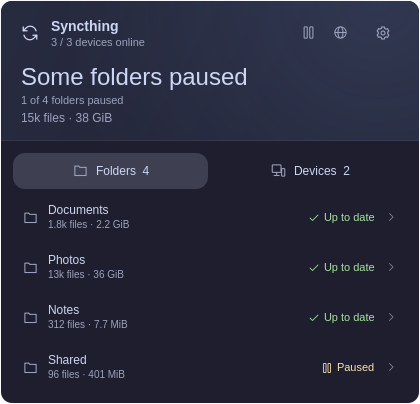
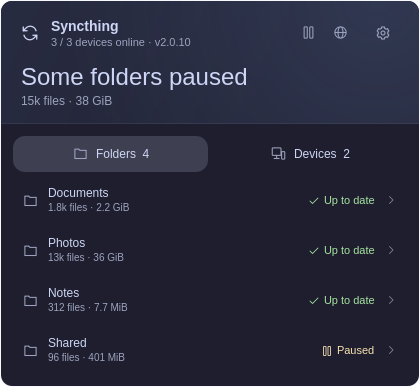
feat(syncthing): show our Syncthing version and each connected peer's
The user wants to know which Syncthing version this computer and the
other devices run.

- The header's meta reads "2 / 3 devices online · v2.0.10": the
  version from the core's identity.version, last, so an overlong one is
  what gets elided, never the device count. It is left out while
  Syncthing is offline or when the core couldn't read it; never an error.
- A connected device's row subtitle reads "3 shared folders · v2.0.9".
  A disconnected peer shows no version (the simpler choice: no "last
  seen" marking), nor does any row while Syncthing is unavailable.
- Both are plain text (the view's Label is Text.PlainText, the kit's
  meta too) and were bounded by the core (43445d3).

No new catalog strings: the parts are the existing device count, the
folder count and the version, joined with " · ".

Tests:
- overview.test.js: the connected, disconnected and offline subtitles;
  fails on the old model.
- runtime.py's new live scenes run the real core against the fake
  Syncthing (fake systemctl and syncthing first on PATH, STCONFDIR and
  STHOMEDIR unset, config.xml in the shell's own XDG_STATE_HOME) up to
  the opened popup: our version in the meta, the peer's on its row, none
  on the disconnected peer, no folder count under "Up to date". A second
  run fails /rest/system/version and gives the peer an escape-sequence
  version: no version anywhere and no error. Without this change the
  scenes fail ("our version: 'undefined'"); with the previous helper,
[…]

diff --git a/preview/Preview.qml b/preview/Preview.qml
@@ -10,7 +10,7 @@ Item {
   id: preview
   required property QtObject bar
   required property Item anchorItem
-  property var previewStates: ["folders", "syncing", "devices", "conflicts", "stopped", "not-installed", "empty", "settings", "add-folder", "unlink"]
+  property var previewStates: ["folders", "up-to-date", "syncing", "devices", "conflicts", "unavailable", "stopped", "not-installed", "empty", "settings", "add-folder", "unlink"]
   property string previewState: "folders"
   property int settleMs: 700
   readonly property Item popup: popupWindow
@@ -71,7 +71,7 @@ Item {
       id: "work-z8y7x",
       label: "",
       path: home + "/Work/Shared",
-      paused: true,
+      paused: previewState !== "up-to-date" && previewState !== "devices",
       devices: [
         {
           id: "LAPTOP"
@@ -90,7 +90,10 @@ Item {
     readonly property bool stopped: preview.previewState === "stopped"
     readonly property bool missing: preview.previewState === "not-installed"
     readonly property bool empty: preview.previewState === "empty"
-    readonly property bool online: !stopped && !missing
+    // Syncthing doesn't answer (the core's error), the unit still runs.
+    readonly property bool unavailable: preview.previewState === "unavailable"
+    readonly property bool online: !stopped && !missing && !unavailable
+    readonly property string syncthingVersion: online ? "v2.0.10" : ""
     readonly property string localDeviceId: "LOCAL"
     readonly property var devices: Facade.devices(online ? [
       {
@@ -101,12 +104,14 @@ Item {
       {
         id: "LAPTOP",
         name: "ThinkPad",
-        connected: true
+        connected: true,
+        version: "v2.0.10"
       },
       {
         id: "PHONE",
         name: "Pixel 9",
-        connected: preview.previewState !== "devices"
+        connected: preview.previewState !== "devices",
+        version: preview.previewState !== "devices" ? "v1.30.0" : ""
       }
     ] : [])
     readonly property var folders: Facade.folders(online && !empty ? preview.rawFolders : [])
@@ -136,12 +141,12 @@ Item {
     readonly property bool tooFewDevices: false
     readonly property bool hasProblems: hasConflicts
     readonly property bool serviceAvailable: !missing
-    readonly property bool serviceActive: online
+    readonly property bool serviceActive: online || unavailable
     readonly property string installationState: missing ? "missing" : "existing"
     readonly property bool canInstall: missing
     readonly property bool canControlService: !missing
     readonly property bool serviceActionRunning: false
-    readonly property string summaryText: missing ? FoamyI18n.t("Syncthing is not installed") : stopped ? FoamyI18n.t("Syncing stopped") : ""
+    readonly property string summaryText: missing ? FoamyI18n.t("Syncthing is not installed") : stopped ? FoamyI18n.t("Syncing stopped") : unavailable ? FoamyI18n.t("Syncthing unavailable") : ""
     readonly property var compactSummary: PanelModel.compactSummary(mock, folderRows, FoamyI18n.t, function (key, count, values) {
       return FoamyI18n.tn(key, count, values)
     })
@@ -153,7 +158,7 @@ Item {
     readonly property string packageStatus: ""
     readonly property string packageError: ""
     readonly property string conflictScanError: ""
-    readonly property string lastError: ""
+    readonly property string lastError: unavailable ? "Syncthing returned HTTP 500" : ""
     readonly property string controlError: ""
     readonly property string folderPreparationError: ""
     readonly property bool folderPreparationBusy: false
@@ -188,7 +193,7 @@ Item {
       return
     view.forgetFolderId = ""
     view.addOpen = false
-    view.tab = previewState === "devices" ? "devices" : "folders"
+    view.tab = previewState === "devices" || previewState === "up-to-date" ? "devices" : "folders"
     var expanded = ({})
     if (previewState === "syncing")
       expanded["folders:docs-x7k2p"] = true

diff --git a/models/OverviewModel.js b/models/OverviewModel.js
@@ -39,7 +39,8 @@ function rows(service, folders, translate, formatBytes, formatCount, translatePl
     var id = String(device.deviceID || "")
     if (!id || id === service.localDeviceId || byId[id]) continue
     var row = {id: id, label: device.name || tr("Device {id}", {id: id.slice(0, 7)}),
-      connected: device.connected === true, state: "", subtitle: "", detail: "", related: [], icon: "devices", progress: -1}
+      connected: device.connected === true, version: String(device.version || ""),
+      state: "", subtitle: "", detail: "", related: [], icon: "devices", progress: -1}
     byId[id] = row
     deviceRows.push(row)
   }
@@ -87,7 +88,9 @@ function rows(service, folders, translate, formatBytes, formatCount, translatePl
       else if (row.related.some(function(folder) { return folder.state === "Out of sync" })) row.state = "Out of sync"
       else if (row.related.some(function(folder) { return folder.state === "Syncing" })) row.state = "Syncing"
     }
-    row.subtitle = tn("{count} shared folders", row.related.length, {count: row.related.length})
+    var shared = tn("{count} shared folders", row.related.length, {count: row.related.length})
+    // A peer's Syncthing version is known only while it is connected.
+    row.subtitle = row.version && row.state !== "Unavailable" && row.connected ? shared + " · " + row.version : shared
     row.detail = row.state === "Error" ? tr("Connected. A shared folder has a local error.")
       : row.state === "Out of sync" ? tr("Connected. A shared folder is out of sync locally.")
       : row.state === "Syncing" ? tr("Connected. A shared folder is syncing locally.")

diff --git a/ui/SyncthingView.qml b/ui/SyncthingView.qml
@@ -76,6 +76,11 @@ PanelKeyCatcher {
   // The title row's meta: how many devices are online. When Syncthing is not
   // reachable the hero title already says why, so the meta stays empty.
   readonly property string deviceLine: service && service.online ? FoamyI18n.t("{connected} / {total} devices online", counts) : ""
+  // Our Syncthing version ends the meta (an overlong one is what gets elided);
+  // it is left out when unknown.
+  readonly property string headerMeta: [deviceLine, service ? String(service.syncthingVersion || "") : ""].filter(function (part) {
+    return part !== ""
+  }).join(" · ")
 
   // ---- keyed rows (built only while shown) -------------------------------------
   readonly property var liveRows: opened && !editingSettings && !addOpen ? OverviewModel.rows(service, folderRows, FoamyI18n.t, PanelModel.formatBytes, PanelModel.formatCount, FoamyI18n.tn) : null
@@ -364,7 +369,7 @@ PanelKeyCatcher {
       Layout.fillWidth: true
       iconName: "sync"
       title: FoamyI18n.t("Syncthing")
-      meta: root.deviceLine
+      meta: root.headerMeta
       settingsHasCursor: cursor.at(root.settingsStop)
       onSettingsClicked: root.settingsRequested()
       onSettingsHovered: function (hovered) {

diff --git a/tests/overview.test.js b/tests/overview.test.js
@@ -67,3 +67,16 @@ test('out-of-sync folders preserve errors and do not turn offline peers into err
   assert.equal(offline.devices[1].state, 'Disconnected');
   assert.equal(rows({...service, online: false}, [failed]).folders[0].state, 'Unavailable');
 });
+
+test('a connected peer shows its Syncthing version; a disconnected or offline one does not', () => {
+  const versioned = {...service, devices: [
+    {deviceID: 'local', name: 'Local', version: 'v2.0.10'},
+    {deviceID: 'peer', name: 'Peer', connected: true, version: 'v2.0.9'},
+    {deviceID: 'offline', name: 'Offline', connected: false, version: 'v1.27.0'}]};
+  const result = rows(versioned);
+  assert.equal(result.devices[0].subtitle, '1 shared folders · v2.0.9');
+  assert.doesNotMatch(result.devices[1].subtitle, /v1\.27/);
+  assert.doesNotMatch(rows({...versioned, online: false}).devices[0].subtitle, /v2\.0\.9/);
+  // No version: the subtitle is the folder count alone.
+  assert.doesNotMatch(rows().devices[0].subtitle, /·/);
+});

diff --git a/Service.qml b/Service.qml
@@ -50,6 +50,8 @@ QtObject {
   readonly property string recoveryWarning: core.starting ? root.tr("Starting the native core") : Facade.truncated(truncation) ? root.tr("Some Syncthing items exceed panel limits; use the Web UI for the hidden entries") : ""
   readonly property string baseUrl: String(webUi.url || "")
   readonly property string localDeviceId: String(identity.deviceId || "")
+  // This Syncthing's version ("v2.0.10"); "" while offline or when the core couldn't read it.
+  readonly property string syncthingVersion: online ? String(identity.version || "") : ""
   readonly property var devices: Facade.devices(state.devices)
   readonly property var folders: Facade.folders(state.folders)
   readonly property var pendingFolders: state.pendingFolders || ({})

diff --git a/service/Facade.js b/service/Facade.js
@@ -9,7 +9,9 @@ function devices(values) {
       deviceID: String(device.id || ""),
       name: String(device.name || ""),
       untrusted: device.untrusted === true,
-      connected: device.connected === true
+      connected: device.connected === true,
+      // The core keeps only short printable versions, and only while connected.
+      version: String(device.version || "")
     })
   }
   return projected

diff --git a/tests/runtime.py b/tests/runtime.py
@@ -39,6 +39,9 @@ os.environ.setdefault("FOAMY_HOST_45", "/usr/share/omarchy/shell")
 sys.path.insert(0, str(KIT / "preview"))
 import harness  # noqa: E402
 
+import core_harness  # noqa: E402
+import fake_syncthing  # noqa: E402
+
 SOURCE = Path(__file__).resolve().parents[1]
 
 PROBE_STUB = """#!/bin/bash
@@ -260,16 +263,73 @@ ShellRoot {
 }
 """
 
+# The real core against tests/fake_syncthing.py: the header's version and
+# device line, and each peer's version, end to end (Syncthing → helper →
+# Service → view). FOAMY_EXPECT_* say what this run's fake reports.
+LIVE_SHELL = r"""
+import QtQuick
+import Quickshell
+import "harness"
+import "plugin" as Plugin
 
-def prepare(work):
+ShellRoot {
+  id: shell
+  property var service: null
+  property var panel: null
+  property int checks: 0
+  readonly property string version: Quickshell.env("FOAMY_EXPECT_VERSION")
+  readonly property string peer: Quickshell.env("FOAMY_EXPECT_PEER")
+  function check(ok, what) { checks++; if (!ok) console.log("FOAMY FAIL " + what) }
+  function device(view, name) {
+    var devices = view && view.liveRows ? view.liveRows.devices : []
+    for (var i = 0; i < devices.length; i++)
+      if (devices[i].label === name) return devices[i]
+    return null
+  }
+  FloatingWindow {
+    implicitWidth: 400; implicitHeight: 300
+    Item { id: host; width: 400; height: 300 }
+  }
+  Component { id: barComponent; MockBar { barSize: 34 } }
+  FoamyWait { id: wait }
+  Component.onCompleted: {
+    service = Qt.createComponent(Qt.resolvedUrl("plugin/Service.qml")).createObject(null)
+    panel = Qt.createComponent(Qt.resolvedUrl("plugin/Panel.qml")).createObject(host, {
+      bar: barComponent.createObject(shell, { moduleName: "foamy.syncthing" }), moduleName: "foamy.syncthing", width: 40, height: 34 })
+    wait.waitFor(function() { return service.online && service.folderRows.length === 1 && service.devices.length === 3 }, 30000, function(ok) {
+      check(ok, "the real core brings the fake Syncthing online (" + service.phase + " " + service.lastError + ")")
+      panel.open()
+      wait.waitFor(function() { return panel.popup.bodyItem !== null && shell.device(panel.popup.bodyItem, "laptop") !== null }, 10000, function(ok) {
+        var view = panel.popup.bodyItem
+        check(ok, "the popup shows the devices")
+        check(service.syncthingVersion === version, "our version: '" + service.syncthingVersion + "'")
+        check(view.headerMeta === "2 / 3 devices online" + (version ? " · " + version : ""), "header meta: " + view.headerMeta)
+        check(view.summary.title === "Up to date" && view.summary.detail === "", "no folder count under Up to date: " + JSON.stringify(view.summary))
+        check(view.errorText === "", "no error: " + view.errorText)
+        var laptop = shell.device(view, "laptop")
+        check(laptop && laptop.connected && laptop.subtitle === peer, "connected peer: " + (laptop && laptop.subtitle))
+        var phone = shell.device(view, "<phone & co>")
+        check(phone && !phone.connected && phone.subtitle === "0 shared folders", "disconnected peer, no version: " + (phone && phone.subtitle))
+        console.log("FOAMY CHECKS " + checks)
+        console.log("FOAMY DONE")
+        Qt.quit()
+      }, "the popup opens")
+    })
+  }
+}
+"""
+
+
+def prepare(work, real_core=False):
     plugin = work / "plugin"
     shutil.copytree(SOURCE, plugin, ignore=shutil.ignore_patterns(".git", "__pycache__", "preview.png", "target"))
-    # The fake core answers `stream`; `conflicts` goes to the real helper.
-    core = plugin / "bin" / platform.machine() / "foamy-syncthing-helper"
-    shutil.copyfile(core, work / "foamy-syncthing-helper")
-    (work / "foamy-syncthing-helper").chmod(0o755)
-    shutil.copyfile(SOURCE / "tests/fake-core.py", core)
-    core.chmod(0o755)
+    if not real_core:
+        # The fake core answers `stream`; `conflicts` goes to the real helper.
+        core = plugin / "bin" / platform.machine() / "foamy-syncthing-helper"
+        shutil.copyfile(core, work / "foamy-syncthing-helper")
+        (work / "foamy-syncthing-helper").chmod(0o755)
+        shutil.copyfile(SOURCE / "tests/fake-core.py", core)
+        core.chmod(0o755)
     (plugin / "scripts/syncthing-install.sh").write_text(PROBE_STUB)
     return plugin
 
@@ -435,11 +495,86 @@ def run(host, shell, crash=False, blocked=False):
         shutil.rmtree(work, ignore_errors=True)
 
 
+def run_live(host, failing_version=False):
+    """LIVE_SHELL with the real core, a fake Syncthing in the shell's HOME and
+    fake systemctl/syncthing first on PATH (no real service is ever asked).
+    failing_version: /rest/system/version fails and the peer reports a
+    version with an escape sequence; neither may show."""
+    work = Path(tempfile.mkdtemp(prefix=f"foamy-syncthing-live-{host}-"))
+    syncthing = None
+    try:
+        plugin = prepare(work, real_core=True)
+        runner = harness.Run(
+            host,
+            LIVE_SHELL,
+            plugin=plugin,
+            prefix=f"foamy-syncthing-live-{host}-",
+            fakebin={"systemctl": core_harness.SYSTEMCTL, "syncthing": core_harness.SYNCTHING},
+        )
+        home = Path(runner.env["HOME"])
+        syncthing = fake_syncthing.FakeSyncthing(home)
+        (home / "Docs").mkdir()
+        syncthing.state["folders"] = [fake_syncthing.folder(home / "Docs")]
+        if failing_version:
+            syncthing.overrides[("GET", "/rest/system/version")] = (500, b"boom")
+            syncthing.state["connections"][fake_syncthing.PEER_ID]["clientVersion"] = "v2.0.9\x1b[31m"
+        config = Path(runner.env["XDG_STATE_HOME"]) / "syncthing"
+        config.mkdir(parents=True)
+        syncthing.state["paths"]["config"] = str(config / "config.xml")
+        (config / "config.xml").write_text(
+            f'<configuration><gui tls="false"><address>{syncthing.address}</address>'
+            f"<apikey>{fake_syncthing.API_KEY}</apikey></gui></configuration>\n"
+        )
+        systemctl = work / "systemctl.json"
+        systemctl.write_text(
+            json.dumps(
+                {
+                    "LoadState": "loaded",
+                    "ActiveState": "active",
+                    "UnitFileState": "enabled",
+                    "FragmentPath": "/usr/lib/systemd/user/syncthing.service",
+                    "ExecStart": "{ path=/usr/bin/syncthing ; argv[]=/usr/bin/syncthing serve --no-browser ; }",
+                }
+            )
+        )
+        for name in ("STCONFDIR", "STHOMEDIR"):
+            runner.env.pop(name, None)
+        runner.env.update(
+            {
+                "FAKE_CALLS": str(work / "calls.jsonl"),
+                "FAKE_SYSTEMCTL_STATE": str(systemctl),
+                "FOAMY_EXPECT_VERSION": "" if failing_version else "v2.0.10",
+                "FOAMY_EXPECT_PEER": "1 shared folder" if failing_version else "1 shared folder · v2.0.9",
+            }
+        )
+        runner.run(timeout=90)
+        lines = runner.log.splitlines()
+        warnings = [line for line in lines if "WARN" in line and "/plugin/" in line and "/plugin/kit/" not in line]
+        warnings += [f"FOAMY FAIL host command ran: {line}" for line in runner.host_commands()]
+        checks = [line.split("FOAMY CHECKS")[1].strip() for line in lines if "FOAMY CHECKS" in line]
+        label = f"{host} live{' failing version' if failing_version else ''}"
+        if runner.ok and not warnings:
+            print(f"{label}: runtime passed ({checks[0] if checks else '?'} checks)")
+            runner.cleanup()
+            return True
+        print(f"{label}: runtime FAILED; log at {runner.base}/qs.log")
+        print("\n".join(warnings + runner.failures() or lines[-30:]))
+        return False
+    finally:
+        if syncthing:
+            syncthing.close()
+        shutil.rmtree(work, ignore_errors=True)
+
+
 status = 0
 if not run("4.5", SHELL):
     status = 1
 if not run("4.5", CRASH_SHELL, crash=True):
     status = 1
 if not run("4.5", BLOCKED_SHELL, blocked=True):
+    status = 1
+if not run_live("4.5"):
+    status = 1
+if not run_live("4.5", failing_version=True):
     status = 1
 sys.exit(status)

diff --git a/README.md b/README.md
@@ -39,11 +39,14 @@ plugin's helper isn't available for this CPU." and nothing retries.
   conflict files. Yellow when fewer devices than your warning threshold are
   connected. Dimmed while Syncthing is unreachable. Left-click opens the
   popup; right-click refreshes (and restarts a stopped core).
-- **Popup:** the tinted header band shows how many devices are online, has
-  start/stop (or install) and Web UI buttons, and holds the overall state with
-  its progress ring. Below it are the **Folders** and **Devices** tabs. Expand a row for
+- **Popup:** the tinted header band shows how many devices are online and,
+  after them, this computer's Syncthing version (left out when Syncthing
+  doesn't report it). It has start/stop (or install) and Web UI buttons, and
+  holds the overall state with the total files and size and its progress
+  ring. Below it are the **Folders** and **Devices** tabs. Expand a row for
   its path, errors, remaining items, progress and the devices or folders it
-  is shared with. Folder rows have **Open folder**.
+  is shared with. Folder rows have **Open folder**. A connected device's row
+  shows its Syncthing version; a disconnected one shows none.
 - Folder names are Syncthing's own folder labels (as in its Web UI), or the
   directory name when a folder has no label.
 - An idle folder with outstanding items shows **Out of sync**. A folder with
@@ -78,7 +81,7 @@ returns a JSON health summary.
 | `openRefreshIntervalSec` | 5 | Refresh while a popup is open, 2–60 s |
 | `probeIntervalSec` | 15 | Installation check while Syncthing is offline (5–300 s); also the core's systemd probe interval |
 
-All five are in Omarchy's widget settings (`barWidget.schema`); the popup's
+All four are in Omarchy's widget settings (`barWidget.schema`); the popup's
 Settings page has the device warning and both refresh intervals.
 Settings save in place (`bar.shell.updateEntryInline`, else `omarchy bar set`).
 
